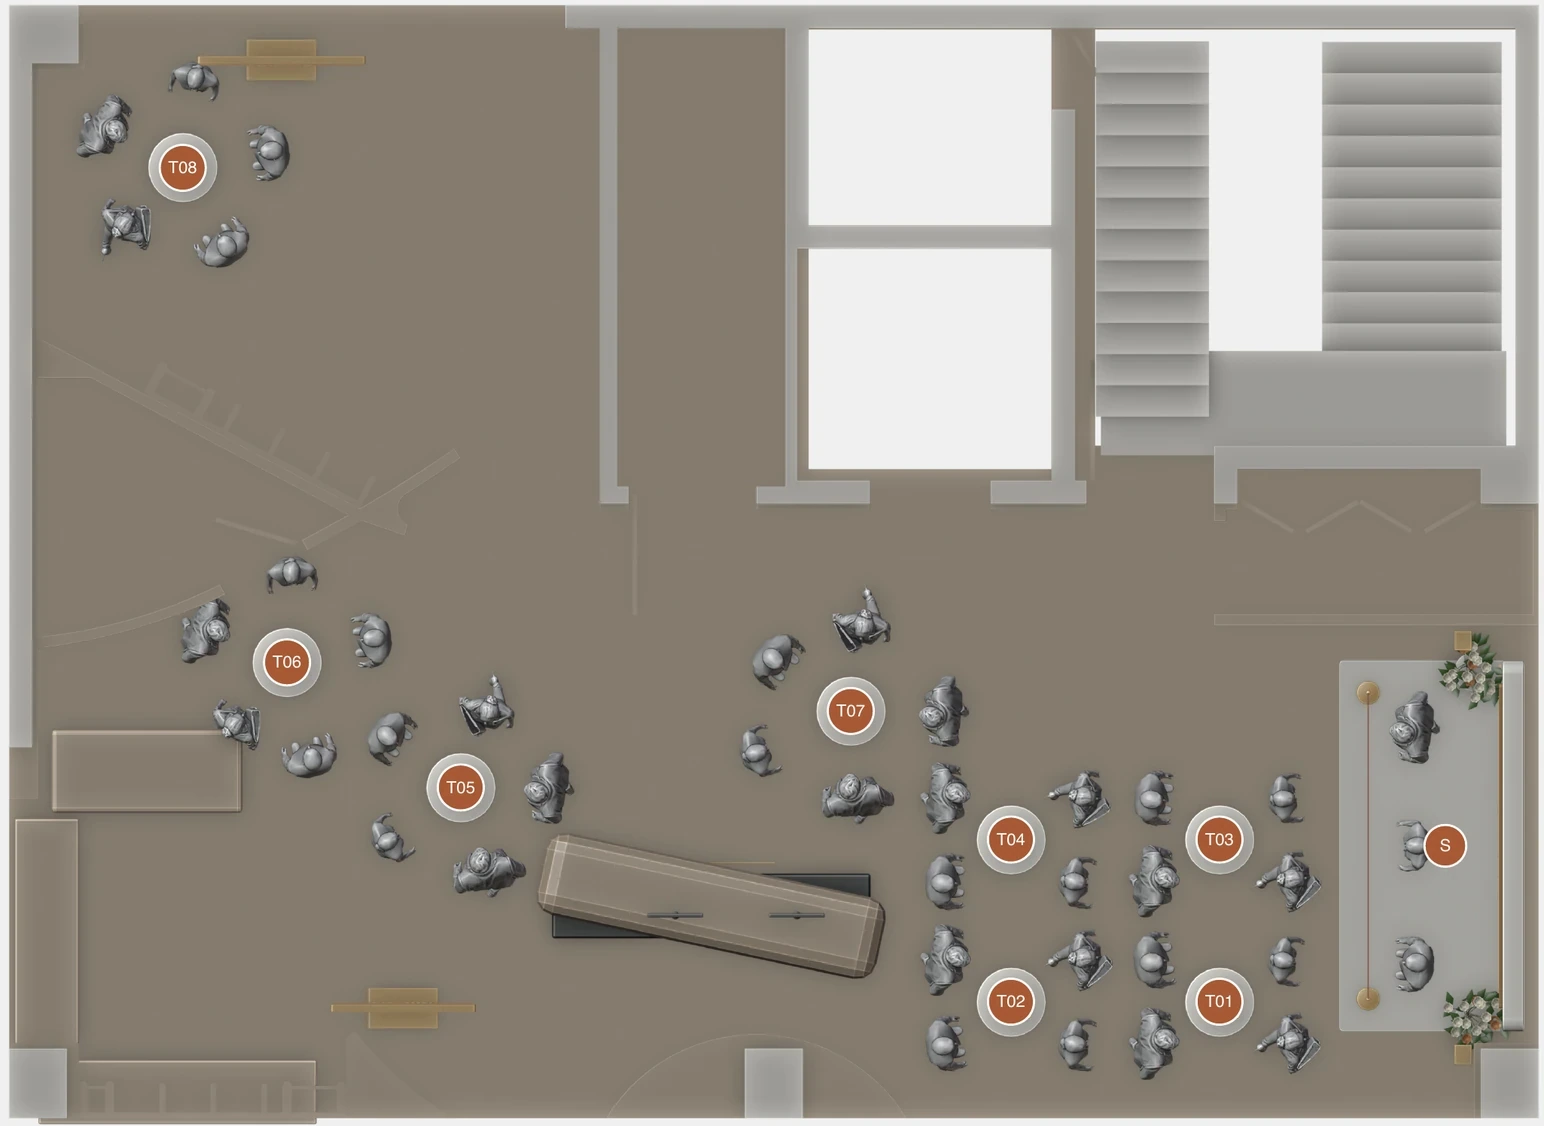
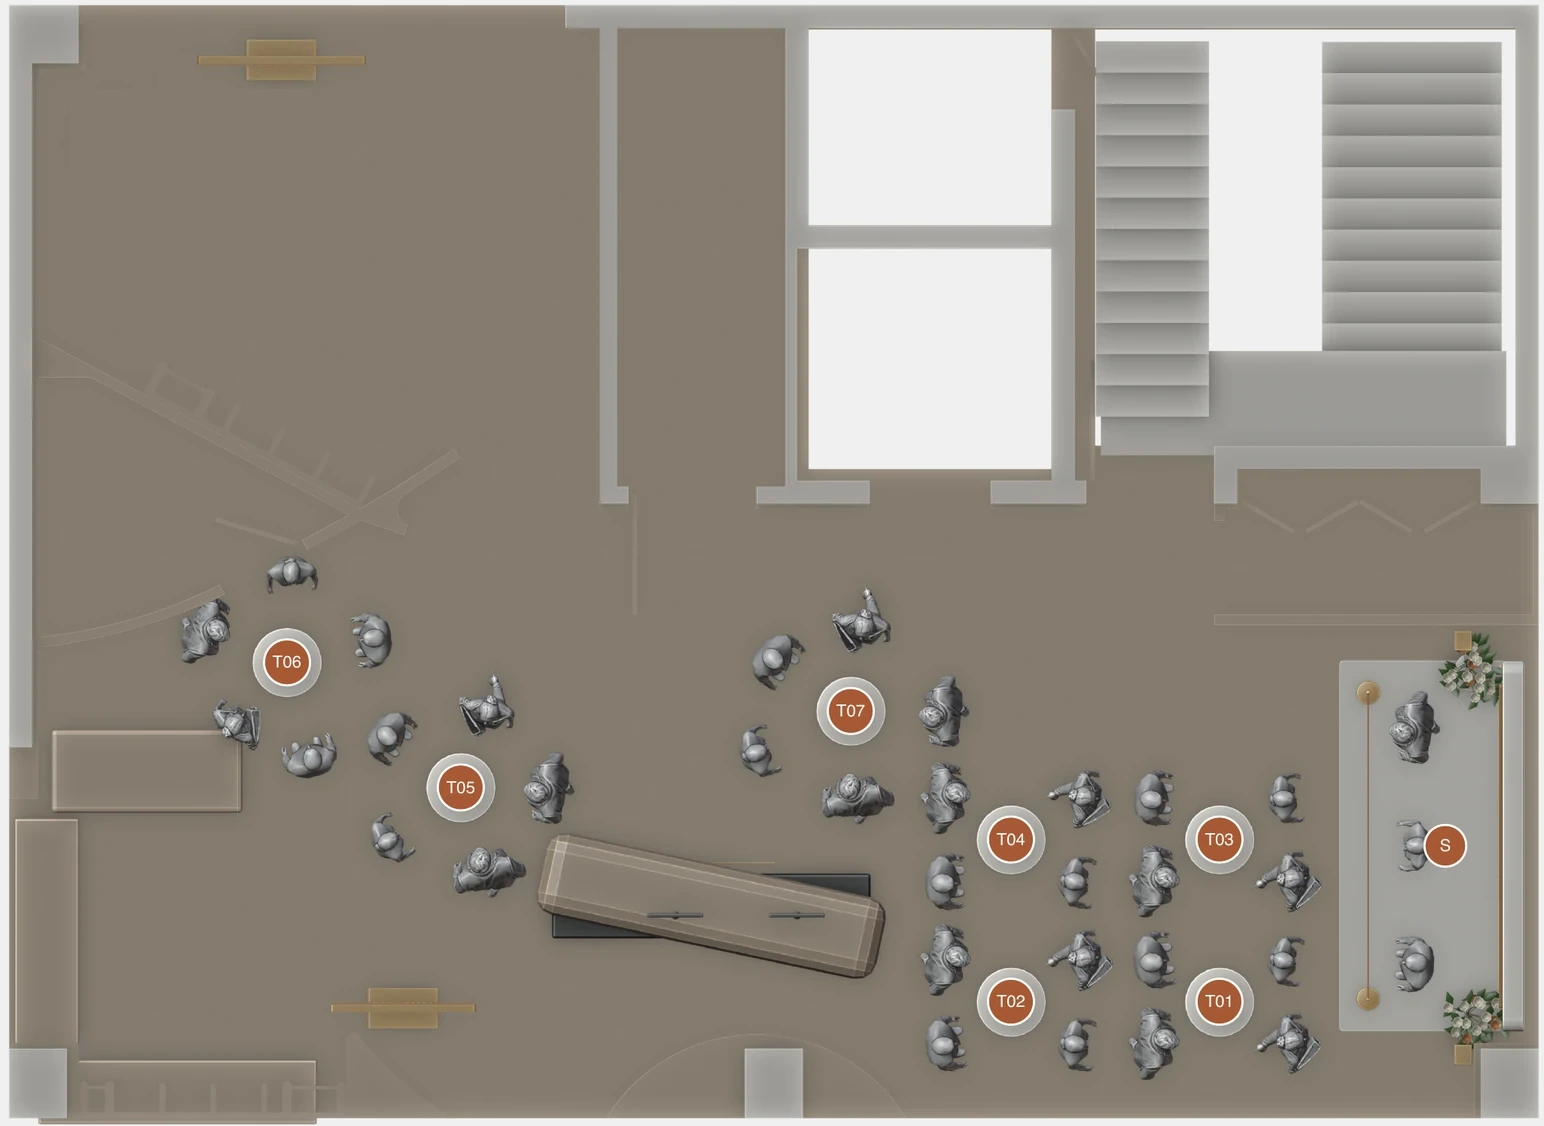
Enlarge event floor plans and remove the end table on floor eight

Changed region(s): [[0.0311, 0.0933, 0.1865, 0.2487], [0.0933, 0.0622, 0.1554, 0.0933]]

diff --git a/public/ceremony/style.css b/public/ceremony/style.css
@@ -69,15 +69,15 @@ dialog{width:min(475px,94vw);max-height:87dvh;background:var(--card);color:var(-
 .space-model{position:relative;display:flex;justify-content:center;align-items:center;margin:0;height:clamp(520px,80svh,930px)}
 .space-model>img{width:100%;height:100%;display:block;object-fit:contain;object-position:38% 50%}
 .space-model figcaption{position:absolute;z-index:1;top:14px;left:14px;padding:4px 9px;background:#30271ed9;color:white;font-size:.86rem;border-radius:4px}
-.mini-map{position:absolute;z-index:2;top:14px;right:14px;width:clamp(200px,23%,300px);border-radius:6px;padding:6px;background:#fffdf8;box-shadow:0 3px 16px #20252a40;border:1px solid #c4b8a9}
+.mini-map{position:absolute;z-index:2;top:14px;right:14px;width:clamp(285px,35%,480px);border-radius:6px;padding:6px;background:#fffdf8;box-shadow:0 3px 16px #20252a40;border:1px solid #c4b8a9}
 .mini-map h4{margin:0 0 4px;font-size:.86rem;font-weight:650}.mini-map .map-scroll{border:1px solid var(--line);border-radius:2px}
-.mini-map .map-pin{width:15px;height:15px}.mini-map .pin-dot{width:9px;height:9px;font-size:0;border-width:1.3px}.mini-map .pin-label{display:none}
+.mini-map .map-pin{width:22px;height:22px}.mini-map .crew{width:28px;height:28px}.mini-map .pin-dot{width:12px;height:12px;font-size:0;border-width:1.3px}.mini-map .pin-label{display:none}
 .mini-map .map-pin:is(:hover,:focus-visible) .pin-label:not(:empty){display:block;font-size:11px;z-index:8}
 .mini-map .pin-editor{width:min(165px,100%);padding:6px 7px}.mini-map .pin-editor label{font-size:.77rem}.mini-map .pin-editor input{font-size:16px}
 .map-tools>select{font-size:.83rem}.map-tools{margin-top:10px}.map-caption{font-size:.76rem}.map-hint:not(:empty){margin-left:auto}
 .tour-floor strong{font-size:1.1rem;color:var(--accent);margin-right:.65em}.tour-table td{padding:9px 7px}.tour-table th:first-child{width:28%}.tour-table th:nth-child(2){width:24%}.tour-table th:last-child{width:12%}.tour-cues{margin-top:12px}
 .care-tile{aspect-ratio:1.92;display:grid;place-items:center;border:1px solid var(--line);border-radius:5px;color:var(--muted);font-size:.86rem}.point[aria-current] .care-tile{border:2px solid var(--accent);color:var(--accent)}
 .care-bookings{max-width:940px}.care-bookings .roster th{width:50%}.care-bookings .storage{margin:0}
-@media(max-width:1000px){.wrap{width:calc(100% - 32px)}.mini-map{width:clamp(165px,25%,220px)}.space-model{height:clamp(470px,70svh,680px)}}
-@media(max-width:780px){.ops-layout{display:block}.people-rail{position:relative;top:auto;max-width:100%;margin-top:12px}#peoplePanel>summary{padding:9px 12px}.people-body{max-width:500px}.space-model{height:clamp(370px,86vw,610px)}.space-model img{padding-top:clamp(40px,8vw,65px);object-position:center 75%}.mini-map{right:7px;top:7px;width:clamp(125px,34%,195px);padding:3px 4px}.mini-map h4{font-size:.73rem;margin-bottom:2px}.space-model figcaption{top:8px;left:7px;font-size:.76rem}.map-hint:not(:empty){margin-left:0}.tour-table th:first-child{width:25%}.tour-table th:nth-child(2){width:22%}.tour-floor strong,.tour-floor span{display:block}.tour-table td{font-size:.82rem;padding:7px 3px}.tour-table input{padding-inline:4px}.tour-floor strong{font-size:.95rem}}
-@media(max-width:640px){.wrap{width:calc(100% - 24px)}.care-tile{aspect-ratio:1.65}.mini-map .map-pin{width:9px;height:9px}.mini-map .pin-dot{width:6px;height:6px}.map-tools{gap:5px}.map-tools>select{max-width:46%}}
+@media(max-width:1000px){.wrap{width:calc(100% - 32px)}.mini-map{width:clamp(245px,40%,360px)}.space-model{height:clamp(470px,70svh,680px)}}
+@media(max-width:780px){.ops-layout{display:block}.people-rail{position:relative;top:auto;max-width:100%;margin-top:12px}#peoplePanel>summary{padding:9px 12px}.people-body{max-width:500px}.space-model{height:clamp(370px,86vw,610px)}.space-model img{padding-top:clamp(85px,19vw,145px);object-position:center 85%}.mini-map{right:7px;top:7px;width:min(58%,335px);padding:3px 4px}.mini-map h4{font-size:.73rem;margin-bottom:2px}.space-model figcaption{top:8px;left:7px;font-size:.76rem}.map-hint:not(:empty){margin-left:0}.tour-table th:first-child{width:25%}.tour-table th:nth-child(2){width:22%}.tour-floor strong,.tour-floor span{display:block}.tour-table td{font-size:.82rem;padding:7px 3px}.tour-table input{padding-inline:4px}.tour-floor strong{font-size:.95rem}}
+@media(max-width:640px){.wrap{width:calc(100% - 24px)}.care-tile{aspect-ratio:1.65}.mini-map .guest{width:clamp(12px,3.6vw,20px);height:clamp(12px,3.6vw,20px)}.mini-map .pin-dot{width:8px;height:8px}.map-tools{gap:5px}.map-tools>select{max-width:46%}}

diff --git a/public/ceremony/layout.js b/public/ceremony/layout.js
@@ -8,8 +8,7 @@ const tablePlaces = [
   [[494,417],[562,417],[562,460],[494,460]],
   [[203,384],[253,370],[286,410],[255,454],[204,439]],
   [[108,327],[151,299],[193,335],[161,394],[122,378]],
-  [[406,344],[449,324],[492,371],[447,416],[396,393]],
-  [[53,68],[102,42],[140,80],[116,127],[66,116]]
+  [[406,344],[449,324],[492,371],[447,416],[396,393]]
 ];
 function vendorPoint(x,y){return {floor:8,x:x/806*100,y:y/588*100};}
 const stagePlaces=[['mc',738,380],['director',740,442],['stage-guest',739,504]];
@@ -46,7 +45,7 @@ function mapEntries(id,floor,layer){
 function mapFile(floor){return [1,8].includes(floor)?'event-'+floor+'.webp':'plan-'+floor+'f.webp';}
 function mapCaption(floor){
   if(floor===1)return '11.05 설치안 · 최종 트리 4안';
-  if(floor===8)return '11.05 배치안 · 테이블 36자리 / 무대 3자리';
+  if(floor===8)return '테이블 '+tablePlaces.length+'개 · 테이블 '+(guestPlaces.length-stagePlaces.length)+'자리 / 무대 '+stagePlaces.length+'자리';
   return '층별 공사 평면도';
 }
 function bound(n,min,max){return Math.max(min,Math.min(max,n));}
